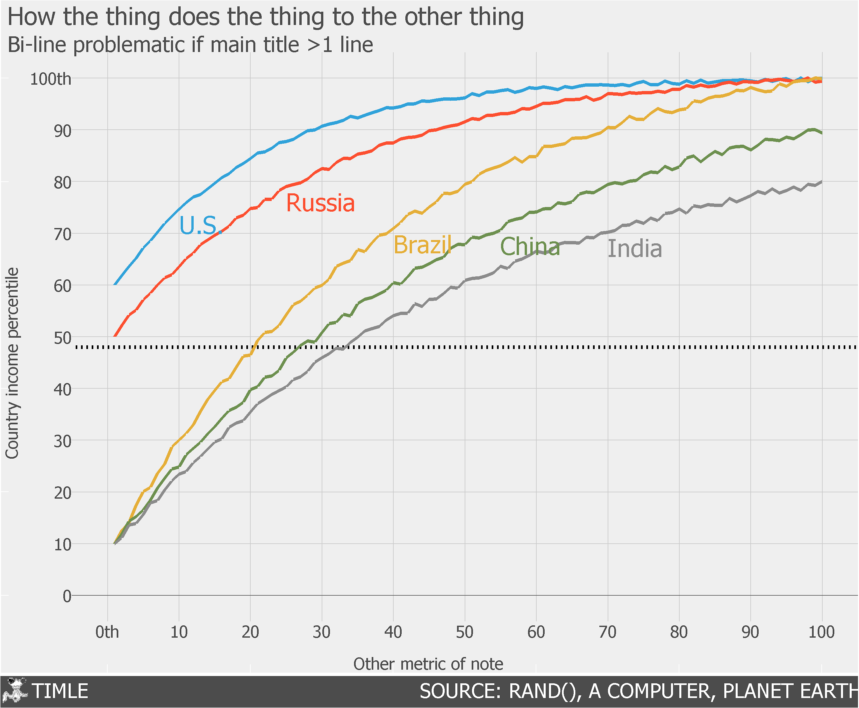
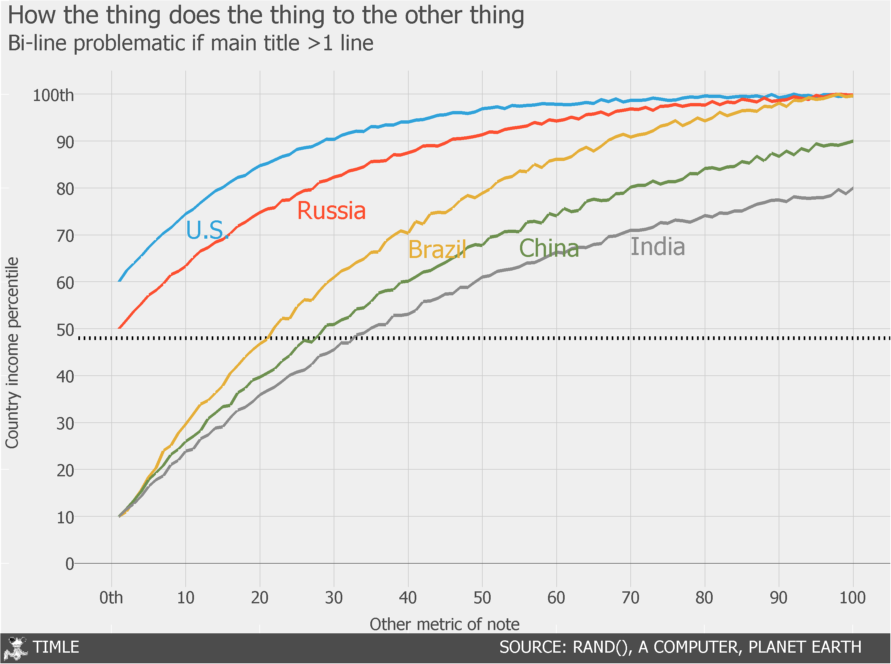
updated graphics

diff --git a/ns17_plotter.m b/ns17_plotter.m
@@ -206,7 +206,6 @@ function ns17_plotter(conf)
     
 %main title
     winsz = get(gcf,'position');
-    onedot = x_width/winsz(3);
     
     titleLeft = LeftAlign + x_width*.01;
     tiltleTop = TopAlign*.95;
@@ -227,7 +226,7 @@ function ns17_plotter(conf)
     
 
     footer_txt_right_pos= [axisPos(1) ...
-                           axisPos(2)-(footerHeight+footerHeight*.1)...
+                           axisPos(2)-(footerHeight)...
                            axisPos(3)...
                            footerHeight];
                        
@@ -241,7 +240,7 @@ function ns17_plotter(conf)
                              
                              
     footer_icon_internal_pos = [footer_icon_internal_pos(1)...
-                                footer_icon_internal_pos(2) * 1.1...
+                                footer_icon_internal_pos(2) * 1.05...
                                 footer_icon_internal_pos(3:4) * .8];
                             
     footer_txt_left_pos = [ footer_txt_right_pos(1) + footerHeight/1.5 ...
@@ -272,8 +271,9 @@ function ns17_plotter(conf)
                 conf.footer_parameters{:})
 
     %footer_txt_right
+    footer_txt_right_pos(1) = footer_txt_right_pos(1)*.7;
     annotation('textbox',footer_txt_right_pos,...
-                'string',upper(conf.footer_txt_right),...
+                'string',[upper(conf.footer_txt_right)],...
                 'edgecolor','none','VerticalAlignment','middle',...
                 'HorizontalAlignment','right',...
                 conf.footer_parameters{:});

diff --git a/ns17_examples.m b/ns17_examples.m
@@ -1,5 +1,6 @@
 %% first plot
 %data
+    conf = [];
     %mkInvExpData_helper generates some nice looking data
     d{1} = mkInvExpData_helper(20,60,100);
     d{2} = mkInvExpData_helper(30,50,100);
@@ -18,7 +19,7 @@
     conf.grid_draw_lim_x = [-5; 105];
 
     conf.plot_margin_prcnt_x = [.1; 0];
-    conf.plot_margin_prcnt_y = [.1; .1];
+    conf.plot_margin_prcnt_y = [.1; .15];
 
     conf.xtick = 0:10:100;
     conf.ytick = 0:10:100;
@@ -52,13 +53,14 @@
     conf.footer_txt_left = 'timle';
     conf.footer_txt_right = 'source: rand(), a computer, planet earth';
 
-    conf.footer_parameters = {'FontName','tahoma','FontSize',11,'Color','white'};
+    conf.footer_parameters = {'FontName','tahoma','FontSize',10,'Color','white'};
     conf.footerHeight = 0.04;
 %do it
     ns17_plotter(conf)
     
     
 %% second plot
+conf = [];
 %data
     dat = 1:55;
     jitter = randi(10,[1 numel(dat)]) - 5;
@@ -113,7 +115,7 @@
 
     conf.footer_txt_left = 'timle';
     conf.footer_txt_right = 'source: rand(), a computer, planet earth';
-    conf.footer_parameters = {'FontName','tahoma','FontSize',11,'Color','white'};
+    conf.footer_parameters = {'FontName','tahoma','FontSize',10,'Color','white'};
     conf.footerHeight = 0.04;
 
 %do it
